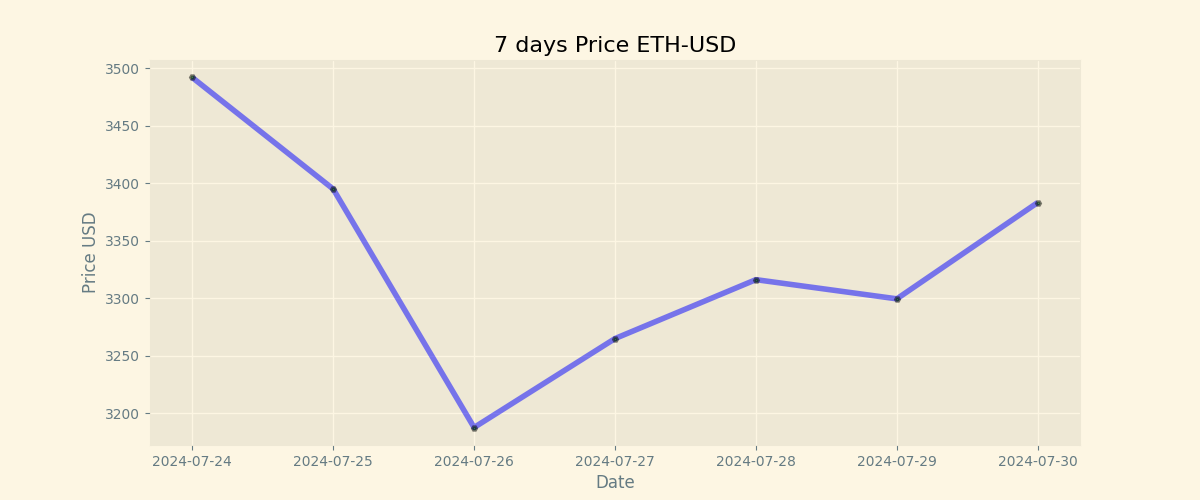
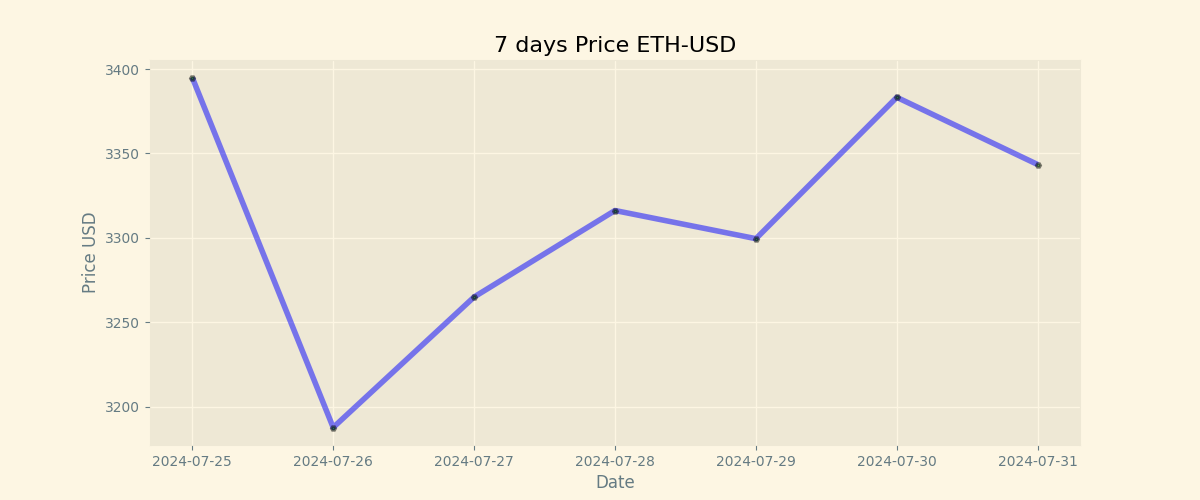
Duty Updates 2024-07-31

diff --git a/README.md b/README.md
@@ -9,8 +9,8 @@
 
 | Currency | Price           |
 | -------- | --------------- |
-| **BTC**  | **$ 69726.71** |
-| **ETH**  | **$ 3383.26** |
+| **BTC**  | **$ 66904.86** |
+| **ETH**  | **$ 3343.44** |
 
 ## BTC chart
 
